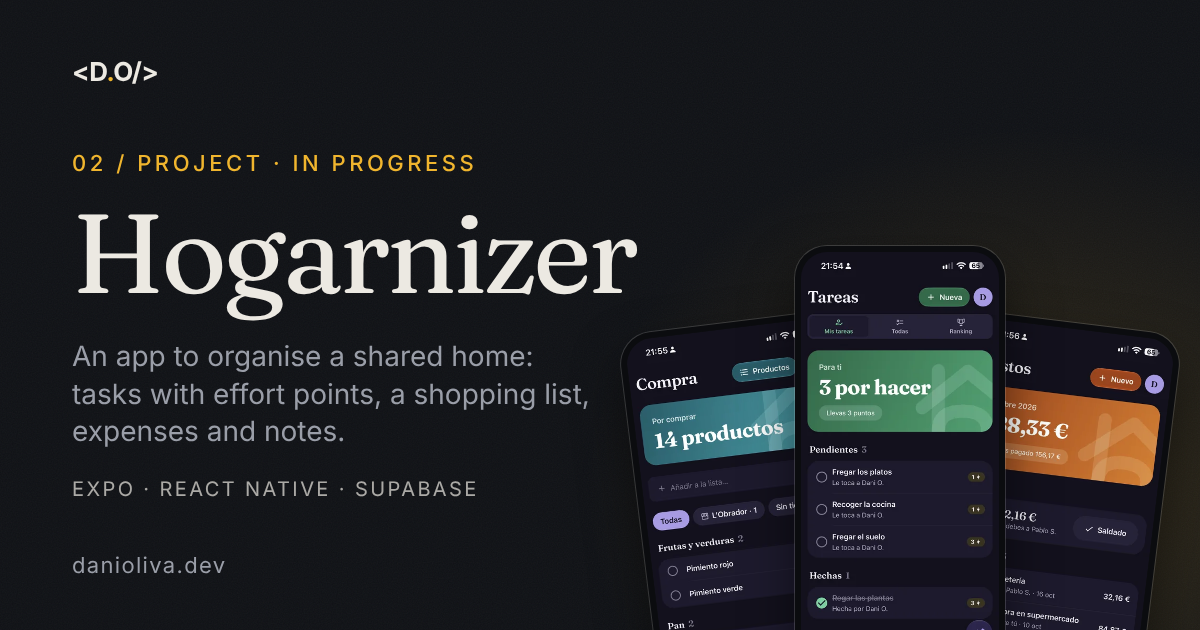
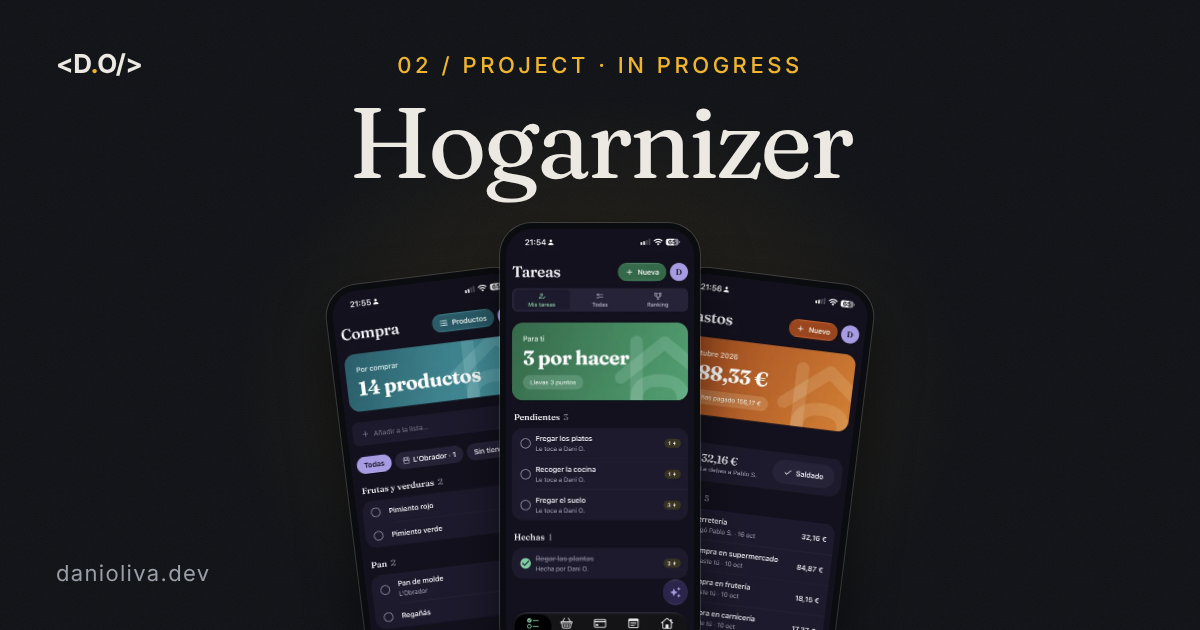
Tarjetas para compartir centradas: lo importante cabe en el cuadrado central que recortan WhatsApp Web y otras apps; versión en la URL para refrescar la caché
Claude-Session: https://claude.ai/code/session_01QwGSbvem29DWb2e6E1Uaf5

diff --git a/README.md b/README.md
@@ -35,8 +35,10 @@ El contenido de proyectos, experiencia y estudios está en `src/i18n/` (textos) 
 - **Vista previa al compartir:** cada página (portada y proyectos, en los tres idiomas) lleva `og:image` y
   `twitter:card` con una tarjeta de 1200×630 en `public/og/<idioma>/<home|slug>.png`. Las dibuja
   `src/pages/og-card/` (solo existe con `astro dev`, no entra en el build) con los mismos textos de `src/i18n/`, y
-  `node scripts/build-social.cjs` las guarda como PNG (y regenera `apple-touch-icon.png` y `favicon.ico`). Hay que
-  volver a lanzarlo al cambiar un texto o una captura de proyecto, y subir los PNG. Necesita Playwright con
+  `node scripts/build-social.cjs` las guarda como PNG (y regenera `apple-touch-icon.png` y `favicon.ico`). Todo lo
+  importante va en el cuadrado central de 630×630, que es lo que recortan WhatsApp Web y otras apps en su miniatura
+  (el móvil enseña la tarjeta entera). Hay que volver a lanzarlo al cambiar un texto o una captura de proyecto, subir
+  los PNG y subir `OG_VERSION` en `Base.astro` (las apps guardan la imagen de cada enlace). Necesita Playwright con
   Chromium (`PW_CHROMIUM_PATH` si ya lo tienes en otro sitio).
 - **Favicon:** `public/favicon.svg`, una «D.» en Fraunces (la serif de los títulos) con el punto de los titulares, sobre ámbar: se ve igual en barras claras y oscuras.
 - **`theme-color`:** una meta para claro y otra para oscuro (el selector de tema las actualiza).
